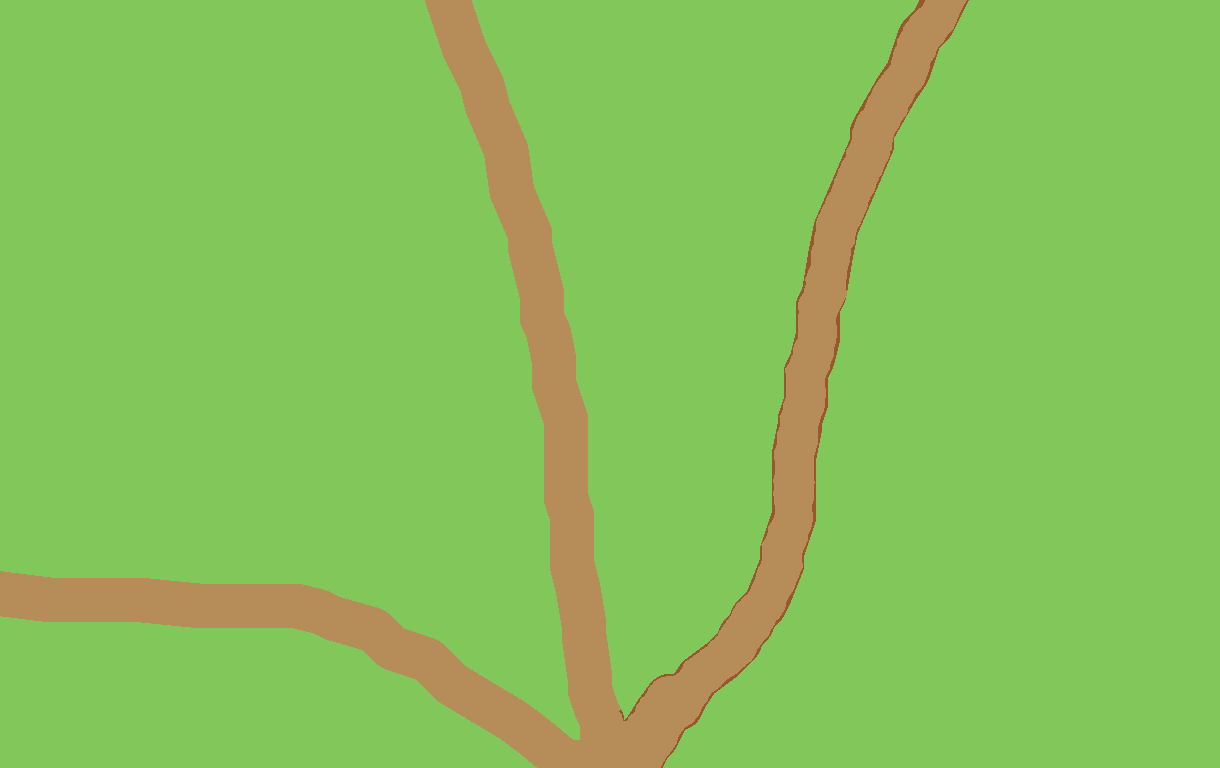
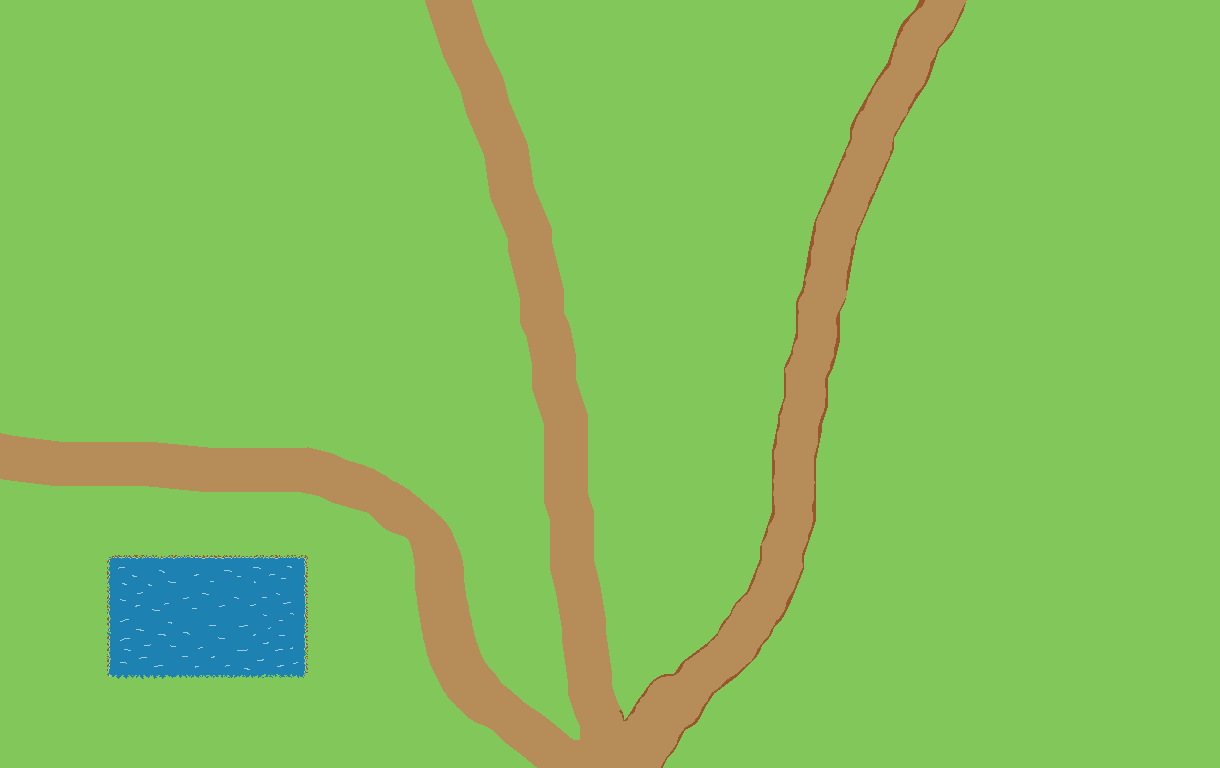
Refatoração Desenho da primeira lagoa

Changed region(s): [[0.0, 0.5625, 0.4361, 0.9375]]

diff --git a/src/liveBeings/Player.java b/src/liveBeings/Player.java
@@ -122,20 +122,17 @@ public class Player extends LiveBeing
     
 	public static final int maxLevel = 99 ;
 	public static final double stepDuration = 0.25 ;
-    public static final Image CollectingMessage = UtilS.loadImage("\\Collect\\" + "CollectingMessage.gif") ; 
-    public static final Image DragonAuraImage = UtilS.loadImage("\\Player\\" + "dragonAura.gif") ;
-    public static final Image RidingImage = UtilS.loadImage("\\Player\\" + "Tiger.png") ;
-	public static final Image CoinIcon = UtilS.loadImage("\\Player\\" + "CoinIcon.png") ;
-	public static final Image MagicBlissGif = UtilS.loadImage("\\Player\\" + "MagicBliss.gif") ;
-    public static final Gif[] CollectingGifs = new Gif[] {
-													    		new Gif("Collecting", UtilS.loadImage("\\Collect\\" + "CollectingFruit.gif"), 3.6, false, false),
-													    		new Gif("Collecting", UtilS.loadImage("\\Collect\\" + "CollectingHerb.gif"), 3.6, false, false),
-													    		new Gif("Collecting", UtilS.loadImage("\\Collect\\" + "CollectingWood.gif"), 3.6, false, false),
-													    		new Gif("Collecting", UtilS.loadImage("\\Collect\\" + "CollectingMetal.gif"), 3.6, false, false)
-												    		} ;
-    public static final Gif TentGif = new Gif("Tent", UtilS.loadImage("Tent.png"), 5, false, false) ;
-	public static final Gif DiggingGif = new Gif("Digging", UtilS.loadImage("\\Player\\" + "Digging.gif"), 2, false, false) ;
-    public static final Gif FishingGif = new Gif("Fishing", UtilS.loadImage("\\Player\\" + "Fishing.gif"), 2, false, false) ;
+	private static final String pathPlayerImg = "\\Player\\" ;
+	private static final String pathCollectImg = "\\Collect\\" ;
+    public static final Image CollectingMessage = UtilS.loadImage(pathCollectImg + "CollectingMessage.gif") ; 
+    public static final Image DragonAuraImage = UtilS.loadImage(pathPlayerImg + "dragonAura.gif") ;
+    public static final Image RidingImage = UtilS.loadImage(pathPlayerImg + "Tiger.png") ;
+	public static final Image CoinIcon = UtilS.loadImage(pathPlayerImg + "CoinIcon.png") ;
+	public static final Image MagicBlissGif = UtilS.loadImage(pathPlayerImg + "MagicBliss.gif") ;
+    public static final Gif[] collectingGifs ;
+    public static final Gif TentGif = new Gif("Tent", UtilS.loadImage(pathPlayerImg + "Tent.png"), 5, false, false) ;
+	public static final Gif DiggingGif = new Gif("Digging", UtilS.loadImage(pathPlayerImg + "Digging.gif"), 2, false, false) ;
+    public static final Gif FishingGif = new Gif("Fishing", UtilS.loadImage(pathPlayerImg + "Fishing.gif"), 2, false, false) ;
     
 	public static final List<String[]> InitialAtts = Util.ReadcsvFile(Game.CSVPath + "PlayerInitialStats.csv") ;
 	public static final List<String[]> EvolutionProperties = Util.ReadcsvFile(Game.CSVPath + "PlayerEvolution.csv") ;	
@@ -153,11 +150,18 @@ public class Player extends LiveBeing
 	
 	static
 	{
-	    Image idleGif = UtilS.loadImage("\\Player\\" + "PlayerIdle.gif") ;
-	    Image movingUpGif = UtilS.loadImage("\\Player\\" + "PlayerBack.gif") ;
-		Image movingDownGif = UtilS.loadImage("\\Player\\" + "PlayerFront.gif") ;
-		Image movingLeftGif = UtilS.loadImage("\\Player\\" + "PlayerMovingLeft.gif") ;
-		Image movingRightGif = UtilS.loadImage("\\Player\\" + "PlayerRight.gif") ;
+		collectingGifs = new Gif[] {
+			new Gif("Collecting", UtilS.loadImage(pathCollectImg + "CollectingFruit.gif"), 3.6, false, false),
+			new Gif("Collecting", UtilS.loadImage(pathCollectImg + "CollectingHerb.gif"), 3.6, false, false),
+			new Gif("Collecting", UtilS.loadImage(pathCollectImg + "CollectingWood.gif"), 3.6, false, false),
+			new Gif("Collecting", UtilS.loadImage(pathCollectImg + "CollectingMetal.gif"), 3.6, false, false)
+		} ;
+
+	    Image idleGif = UtilS.loadImage(pathPlayerImg + "PlayerIdle.gif") ;
+	    Image movingUpGif = UtilS.loadImage(pathPlayerImg + "PlayerBack.gif") ;
+		Image movingDownGif = UtilS.loadImage(pathPlayerImg + "PlayerFront.gif") ;
+		Image movingLeftGif = UtilS.loadImage(pathPlayerImg + "PlayerMovingLeft.gif") ;
+		Image movingRightGif = UtilS.loadImage(pathPlayerImg + "PlayerRight.gif") ;
 		
 		movingAnimations = new MovingAnimations(idleGif, movingUpGif, movingDownGif, movingLeftGif, movingRightGif) ;
 	}
@@ -480,7 +484,7 @@ public class Player extends LiveBeing
 	public void collect(Collectible collectible)
     {
 		
-		Gif collectibleGif = CollectingGifs[collectible.typeNumber()] ;
+		Gif collectibleGif = collectingGifs[collectible.typeNumber()] ;
 		
 		if (collectibleGif.isActive()) { return ;}
 		

diff --git a/src/maps/GameMap.java b/src/maps/GameMap.java
@@ -47,11 +47,15 @@ public class GameMap
 	protected Map<Item, Double> diggingItems ;
 	
 	// private static Image[] CollectibleImage ;
-	// private static Image[] GroundImage ;	
+	// private static Image[] GroundImage ;
+	protected static final Dimension screenSize = Game.getScreen().getSize() ;
 	
-	protected static final SpriteAnimation beachGif ;
-	protected static final Image infoWindow ;
+	protected static final String pathMaps = "\\Maps\\" ;
 	protected static final String dadosPath = Game.dadosPath + "gameMaps\\" ;
+	protected static final Image dockImg = UtilS.loadImage(pathMaps + "Dock.png") ;
+	protected static final Image boatImg = UtilS.loadImage(pathMaps + "Boat.png") ;
+	protected static final Image infoWindow ;
+	protected static final SpriteAnimation beachGif ;
 	
 	public static final Map<Item, Double> allDiggingItems ;
 	public static final Clip musicCities ;
@@ -76,7 +80,7 @@ public class GameMap
 		{
 			allDiggingItems.put(GeneralItem.getAll()[genItemIDs[i]], genItemPotentials[i]) ;
 		}
-		beachGif = new SpriteAnimation("\\Maps\\" + "Map2_beach.png", new Point(Game.getScreen().mapSize().width, 192), Align.topRight, new Dimension(80, 384), 12, 15) ;
+		beachGif = new SpriteAnimation(pathMaps + "Map2_beach.png", new Point(Game.getScreen().mapSize().width, 192), Align.topRight, new Dimension(80, 384), 12, 15) ;
 		infoWindow = UtilS.loadImage("\\Windows\\" + "MapInfo.png") ;
 
 		musicCities = Music.musicFileToClip(new File(Game.MusicPath + "cidade.wav").getAbsoluteFile()) ;
@@ -579,6 +583,8 @@ public class GameMap
  	
  	public void display()
  	{
+		if (name == null) { System.out.println("Warn: trying to display map with no name") ; return ;}
+
  		if (name.equals("City of the animals"))
  		{
  			GamePanel.DP.drawImage(image, Game.getScreen().getMapCenter(), new Scale(0.5, 0.5), Align.center) ;
@@ -587,9 +593,15 @@ public class GameMap
  		
  		GamePanel.DP.drawImage(image, Game.getScreen().getMapCenter(), Align.center) ;
  		
- 		if (name.equals("City of the archers"))
+ 		if (name.equals("City of the archers") || name.equals("Forest 9") || name.equals("Forest 13"))
  		{
  			beachGif.display(GamePanel.DP) ;
+ 		}
+ 		
+ 		if (name.equals("Forest 9"))
+ 		{
+ 			GamePanel.DP.drawImage(dockImg, Game.getScreen().pos(0.6, 0.85), Align.centerLeft) ;
+ 			GamePanel.DP.drawImage(boatImg, Game.getScreen().pos(0.75, 0.8), Align.centerLeft) ;
  		}
  	}
 	

diff --git a/src/main/Game.java b/src/main/Game.java
@@ -100,7 +100,7 @@ public class Game
 	private static final boolean cheatMode = true ;
 	public static final boolean debugMode = true;
 
-	private static GameStates state = GameStates.opening ;
+	private static GameStates state = GameStates.loading ;
 	private static Languages gameLanguage ;
 	private static boolean shouldRepaint ; // tells if the panel should be repainted, created to respond multiple requests only once
 	private static boolean konamiCodeActive ;
@@ -129,13 +129,12 @@ public class Game
 
 	static
 	{
-		Dimension windowSize = GameFrame.getWindowsize() ;
-		screen = new Screen(new Dimension(windowSize.width, windowSize.height), null) ;
-		gameLanguage = Languages.portugues ;
-		normalPalette = UtilS.ReadColorPalette(UtilS.loadImage("ColorPalette4.png"), "Normal") ;
-		konamiPalette = UtilS.ReadColorPalette(UtilS.loadImage("ColorPalette.png"), "Konami") ;
+		screen = new Screen(new Dimension(GameFrame.getWindowsize().width, GameFrame.getWindowsize().height), null) ;
+		normalPalette = UtilS.ReadColorPalette(UtilS.loadImage("ColorPalette.png"), "Normal") ;
+		konamiPalette = UtilS.ReadColorPalette(UtilS.loadImage("KonamiPalette.png"), "Konami") ;
+		selColor = normalPalette[18] ;
 		palette = normalPalette ;
-		selColor = Game.palette[18] ;
+		gameLanguage = Languages.portugues ;
 		allText = new HashMap<>() ;
 		dayCounter = new GameTimer(600) ;
 
@@ -144,7 +143,7 @@ public class Game
 
 	public Game()
 	{
-		player = new Player("", "", 2) ;
+		player = new Player("", "", 1) ;
 	}
 
 	public static GameStates getState() { return state ;}

diff --git a/src/maps/GroundRegion.java b/src/maps/GroundRegion.java
@@ -1,12 +1,14 @@
 package maps ;
 
 import java.awt.Dimension;
+import java.awt.Image;
 import java.awt.Point ;
 
 import graphics.Align;
 import main.Game;
 import main.GamePanel;
 import utilities.Util;
+import utilities.UtilS;
 
 public class GroundRegion
 {
@@ -14,6 +16,8 @@ public class GroundRegion
 	private final GroundType type ;
 	private final Point topLeftPos ;
 	private final Dimension size ;
+
+	private static final Image waterImg = UtilS.loadImage("\\MapElements\\" + "MapElem0_Water.png") ;
 	
 	public GroundRegion(GroundType type, Point topLeftPos, Dimension size)
 	{
@@ -33,7 +37,7 @@ public class GroundRegion
 		switch (type)
 		{
 			case wall: GamePanel.DP.drawRect(topLeftPos, Align.topLeft, size, Game.palette[2], null) ; return ;
-			case water: GamePanel.DP.drawRect(topLeftPos, Align.topLeft, size, Game.palette[20], null) ; return ;
+			case water: GamePanel.DP.drawRect(topLeftPos, Align.topLeft, size, null, Game.palette[20]) ; return ;
 			case lava: GamePanel.DP.drawRect(topLeftPos, Align.topLeft, size, Game.palette[7], null) ; return ;
 			case ice: GamePanel.DP.drawRect(topLeftPos, Align.topLeft, size, Game.palette[1], null) ; return ;
 			case walkingPath: GamePanel.DP.drawRect(topLeftPos, Align.topLeft, size, Game.palette[10], null) ; return ;

diff --git a/src/maps/FieldMap.java b/src/maps/FieldMap.java
@@ -52,7 +52,7 @@ public class FieldMap extends GameMap
 		{
 			if (i == 39 | i == 60) { continue ;}
 			
-			images.add(UtilS.loadImage("\\Maps\\" + "Map" + String.valueOf(i) + ".png")) ;
+			images.add(UtilS.loadImage(pathMaps + "Map" + String.valueOf(i) + ".png")) ;
 		}
 		treeImage = UtilS.loadImage("\\MapElements\\" + "MapElem6_TreeForest.png") ;
 		grassImage = UtilS.loadImage("\\MapElements\\" + "MapElem8_Grass.png") ;
@@ -122,11 +122,12 @@ public class FieldMap extends GameMap
 					break ;
 					
 				case 3:
-					map.addGroundType(new GroundRegion(GroundType.water, new Point(282, 192 + 460), new Dimension(103, 85))) ;
+					map.addGroundType(new GroundRegion(GroundType.water, new Point(108, 192 + 556), new Dimension(198, 121 + 3))) ;
 					break ;
 					
 				case 8, 12:
-					map.addGroundType(new GroundRegion(GroundType.water, new Point(282, Sky.height + 460), new Dimension(140, 480 - Sky.height))) ;
+					int waterWidth = 300 ;
+					map.addGroundType(new GroundRegion(GroundType.water, new Point(screenSize.width - waterWidth, Sky.height), new Dimension(waterWidth, screenSize.height - Sky.height))) ;
 					break ;
 					
 				case 22:

diff --git a/src/maps/CityMap.java b/src/maps/CityMap.java
@@ -1,5 +1,6 @@
 package maps;
 
+import java.awt.Dimension;
 import java.awt.Image;
 import java.awt.Point;
 import java.util.ArrayList;
@@ -18,6 +19,7 @@ import components.NPCType;
 import items.Fab;
 import items.GeneralItem;
 import main.Game;
+import screen.Sky;
 import utilities.Util;
 import utilities.UtilS;
 
@@ -31,7 +33,7 @@ public class CityMap extends GameMap
 		images = new ArrayList<>() ;
 		for (int i = 0 ; i <= 5 - 1 ; i += 1)
 		{
-			images.add(UtilS.loadImage("\\Maps\\" + "Map" + String.valueOf(i) + ".png")) ;
+			images.add(UtilS.loadImage(pathMaps + "Map" + String.valueOf(i) + ".png")) ;
 		}
 	}
 	
@@ -151,7 +153,8 @@ public class CityMap extends GameMap
 			switch (id)
 			{
 				case 2:
-//					cityMaps[id].addGroundType(new GroundType(GroundTypes.water, new Point(500, Sky.height), new Dimension(140, 480 - Sky.height))) ;
+					int waterWidth = 300 ;
+					cityMaps[id].addGroundType(new GroundRegion(GroundType.water, new Point(screenSize.width - waterWidth, Sky.height), new Dimension(waterWidth, screenSize.height - Sky.height))) ;
 					break ;
 				default: break ;
 			}

diff --git a/src/simulations/EvolutionSimulation.java b/src/simulations/EvolutionSimulation.java
@@ -65,10 +65,11 @@ public abstract class EvolutionSimulation
 	
 	private static List<GameButton> buttons ;
 
-	private static final Image screenImage = UtilS.loadImage("SimulationScreen.png") ;
-	private static final Image buttonImage = UtilS.loadImage("ButtonGeneral.png") ;
-	private static final Image buttonSelectedImage = UtilS.loadImage("ButtonGeneralSelected.png") ;
-	private static final Image fightingImage = UtilS.loadImage("fightingIcon.png") ;
+	private static final String pathSimulation = "\\Simulation\\" ;
+	private static final Image screenImage = UtilS.loadImage(pathSimulation + "SimulationScreen.png") ;
+	private static final Image buttonImage = UtilS.loadImage(pathSimulation + "ButtonGeneral.png") ;
+	private static final Image buttonSelectedImage = UtilS.loadImage(pathSimulation + "ButtonGeneralSelected.png") ;
+	private static final Image fightingImage = UtilS.loadImage(pathSimulation + "fightingIcon.png") ;
 	
 	
 	private static int BattleResultsPlayerLife = 0 ;
